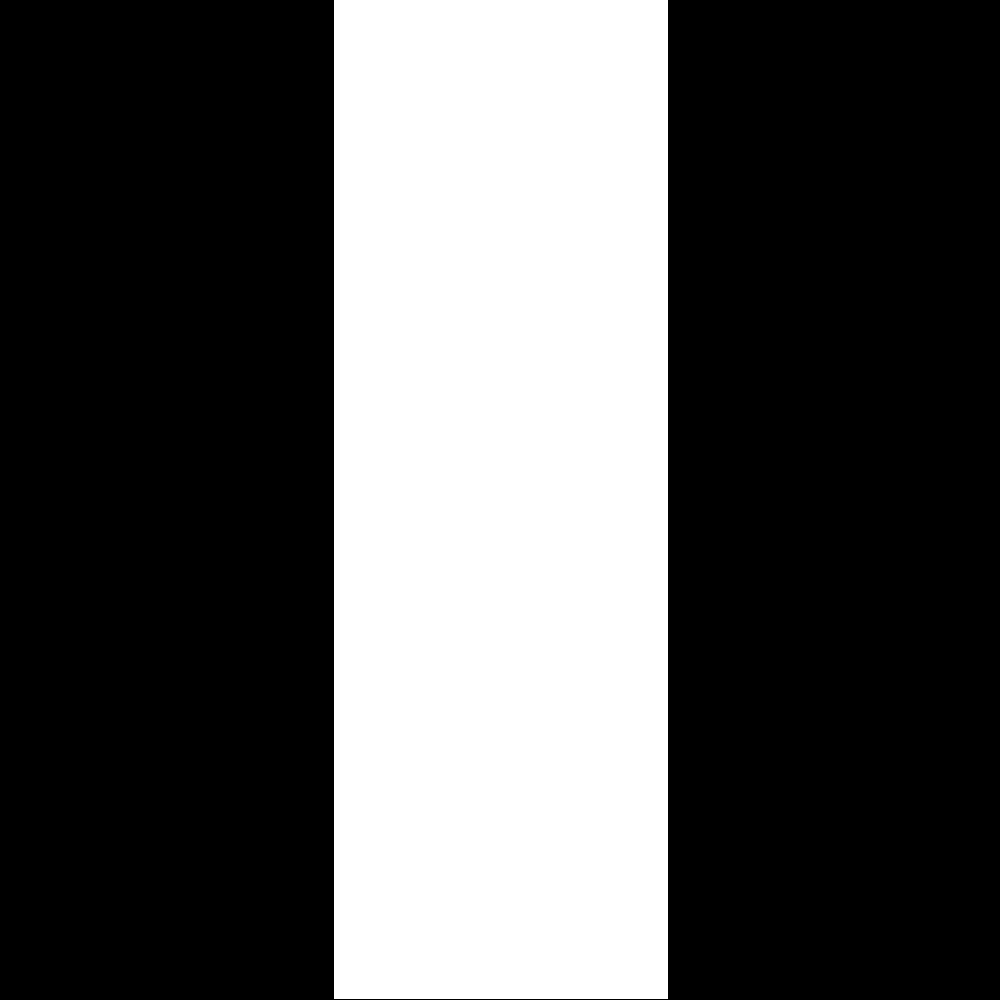
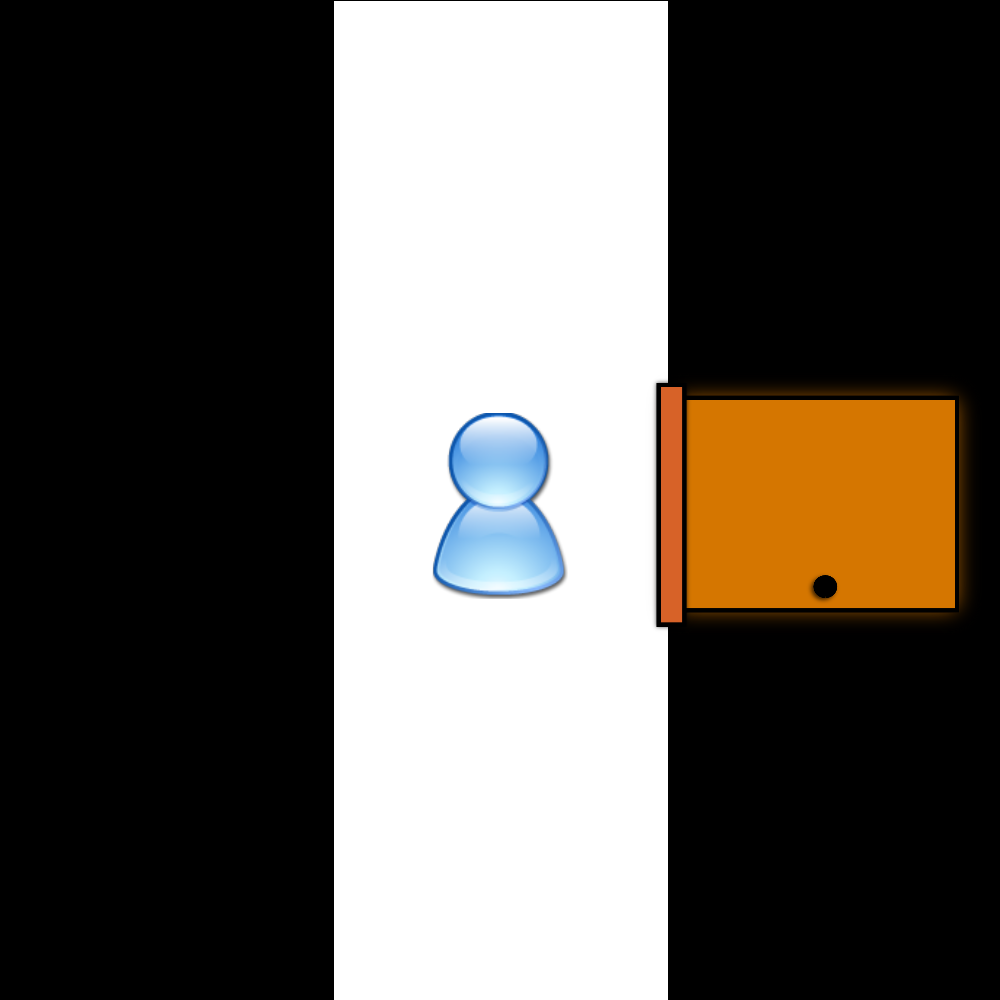
#20 doors prepared, time to merge....

Changed region(s): [[0.651, 0.372, 0.992, 0.651], [0.434, 0.403, 0.589, 0.62], [0.341, 0.992, 0.651, 1.0]]

diff --git a/wp7/OTMA/OTMA/game/Board.cs b/wp7/OTMA/OTMA/game/Board.cs
@@ -18,6 +18,7 @@ namespace OTMA.game
         public static readonly Board instance = new Board();
 
         private Dictionary<Coordinate, BoardElement> board = new Dictionary<Coordinate, BoardElement>();
+        private Dictionary<Coordinate, Door> doors = new Dictionary<Coordinate, Door>();
 
         public Board()
         {
@@ -56,14 +57,32 @@ namespace OTMA.game
             var map5x4 = createAndAddBoardElement(5, 4, "/OTMA;component/Images/5x4.png");
             var map5x5 = createAndAddBoardElement(5, 5, "/OTMA;component/Images/5x5.png");
 
+            
+            var door1x2 = createAndAddDoor(1, 2, "/OTMA;component/Images/door.png");
+            var door1x5 = createAndAddDoor(1, 5, "/OTMA;component/Images/door.png");
+            var door2x1 = createAndAddDoor(2, 1, "/OTMA;component/Images/door.png");
+            var door2x2 = createAndAddDoor(2, 2, "/OTMA;component/Images/door.png");
+            var door2x4 = createAndAddDoor(2, 4, "/OTMA;component/Images/door.png");
+            var door2x5 = createAndAddDoor(2, 5, "/OTMA;component/Images/door.png");
+            var door3x1 = createAndAddDoor(3, 1, "/OTMA;component/Images/door.png");
+            var door3x2 = createAndAddDoor(3, 2, "/OTMA;component/Images/door.png");
+            var door3x4 = createAndAddDoor(3, 4, "/OTMA;component/Images/door.png");
+            var door3x5 = createAndAddDoor(3, 5, "/OTMA;component/Images/door.png");
+            var door4x1 = createAndAddDoor(4, 1, "/OTMA;component/Images/door.png");            
+            var door4x3 = createAndAddDoor(4, 3, "/OTMA;component/Images/door.png");
+            var door4x4 = createAndAddDoor(4, 4, "/OTMA;component/Images/door.png");
+            var door5x2 = createAndAddDoor(5, 2, "/OTMA;component/Images/door.png");
+            var door5x5 = createAndAddDoor(5, 5, "/OTMA;component/Images/door.png");            
+            
+
             map1x1.setBoundaryItems(null, null, map2x1, null);
-            map1x2.setBoundaryItems(null, map1x3, map2x2, null);
+            map1x2.setBoundaryItems(null, map1x3, map2x2, door1x2);
             map1x3.setBoundaryItems(null, map1x4, map2x3, map1x2);
             map1x4.setBoundaryItems(null, map1x5, null, map1x3);
-            map1x5.setBoundaryItems(null, null, null, map1x4);
+            map1x5.setBoundaryItems(null, null, door1x5, map1x4);
 
-            map2x1.setBoundaryItems(map1x1, map2x2, map3x1, null);
-            map2x2.setBoundaryItems(map1x2, null, null, map2x1);
+            map2x1.setBoundaryItems(map1x1, map2x2, map3x1, door2x1);
+            map2x2.setBoundaryItems(map1x2, door2x2, null, map2x1);
             map2x3.setBoundaryItems(map1x3, null, map3x3, null);
             map2x4.setBoundaryItems(null, map2x5, null, null);
             map2x5.setBoundaryItems(null, null, map3x5, map2x4);
@@ -86,6 +105,15 @@ namespace OTMA.game
             map5x4.setBoundaryItems(map4x4, null, null, map5x3);
             map5x5.setBoundaryItems(map4x5, null, null, null);             
 
+        }
+
+        private Door createAndAddDoor(int x, int y, String img)
+        {
+            var coordinate = new Coordinate(x, y);
+            var door = new Door(coordinate, img);
+            doors.Add(coordinate, door);
+
+            return door;
         }
 
         private BoardElement createAndAddBoardElement(int x, int y, String img)

diff --git a/wp7/OTMA/OTMA/domain/Door.cs b/wp7/OTMA/OTMA/domain/Door.cs
@@ -20,5 +20,21 @@ namespace OTMA.domain
 
         public BoardElement backToBoard { private set; get; }
         public Room room { private set; get; }
+        public Event roomEvent { private set; get; }
+
+        public void setRoom(Room room)
+        {
+            this.room = room;
+        }
+
+        public void setBackToBoard(BoardElement board)
+        {
+            this.backToBoard = board;
+        }
+
+        public void setRoomEvent(Event roomEvent)
+        {
+            this.roomEvent = roomEvent;
+        }
     }
 }
